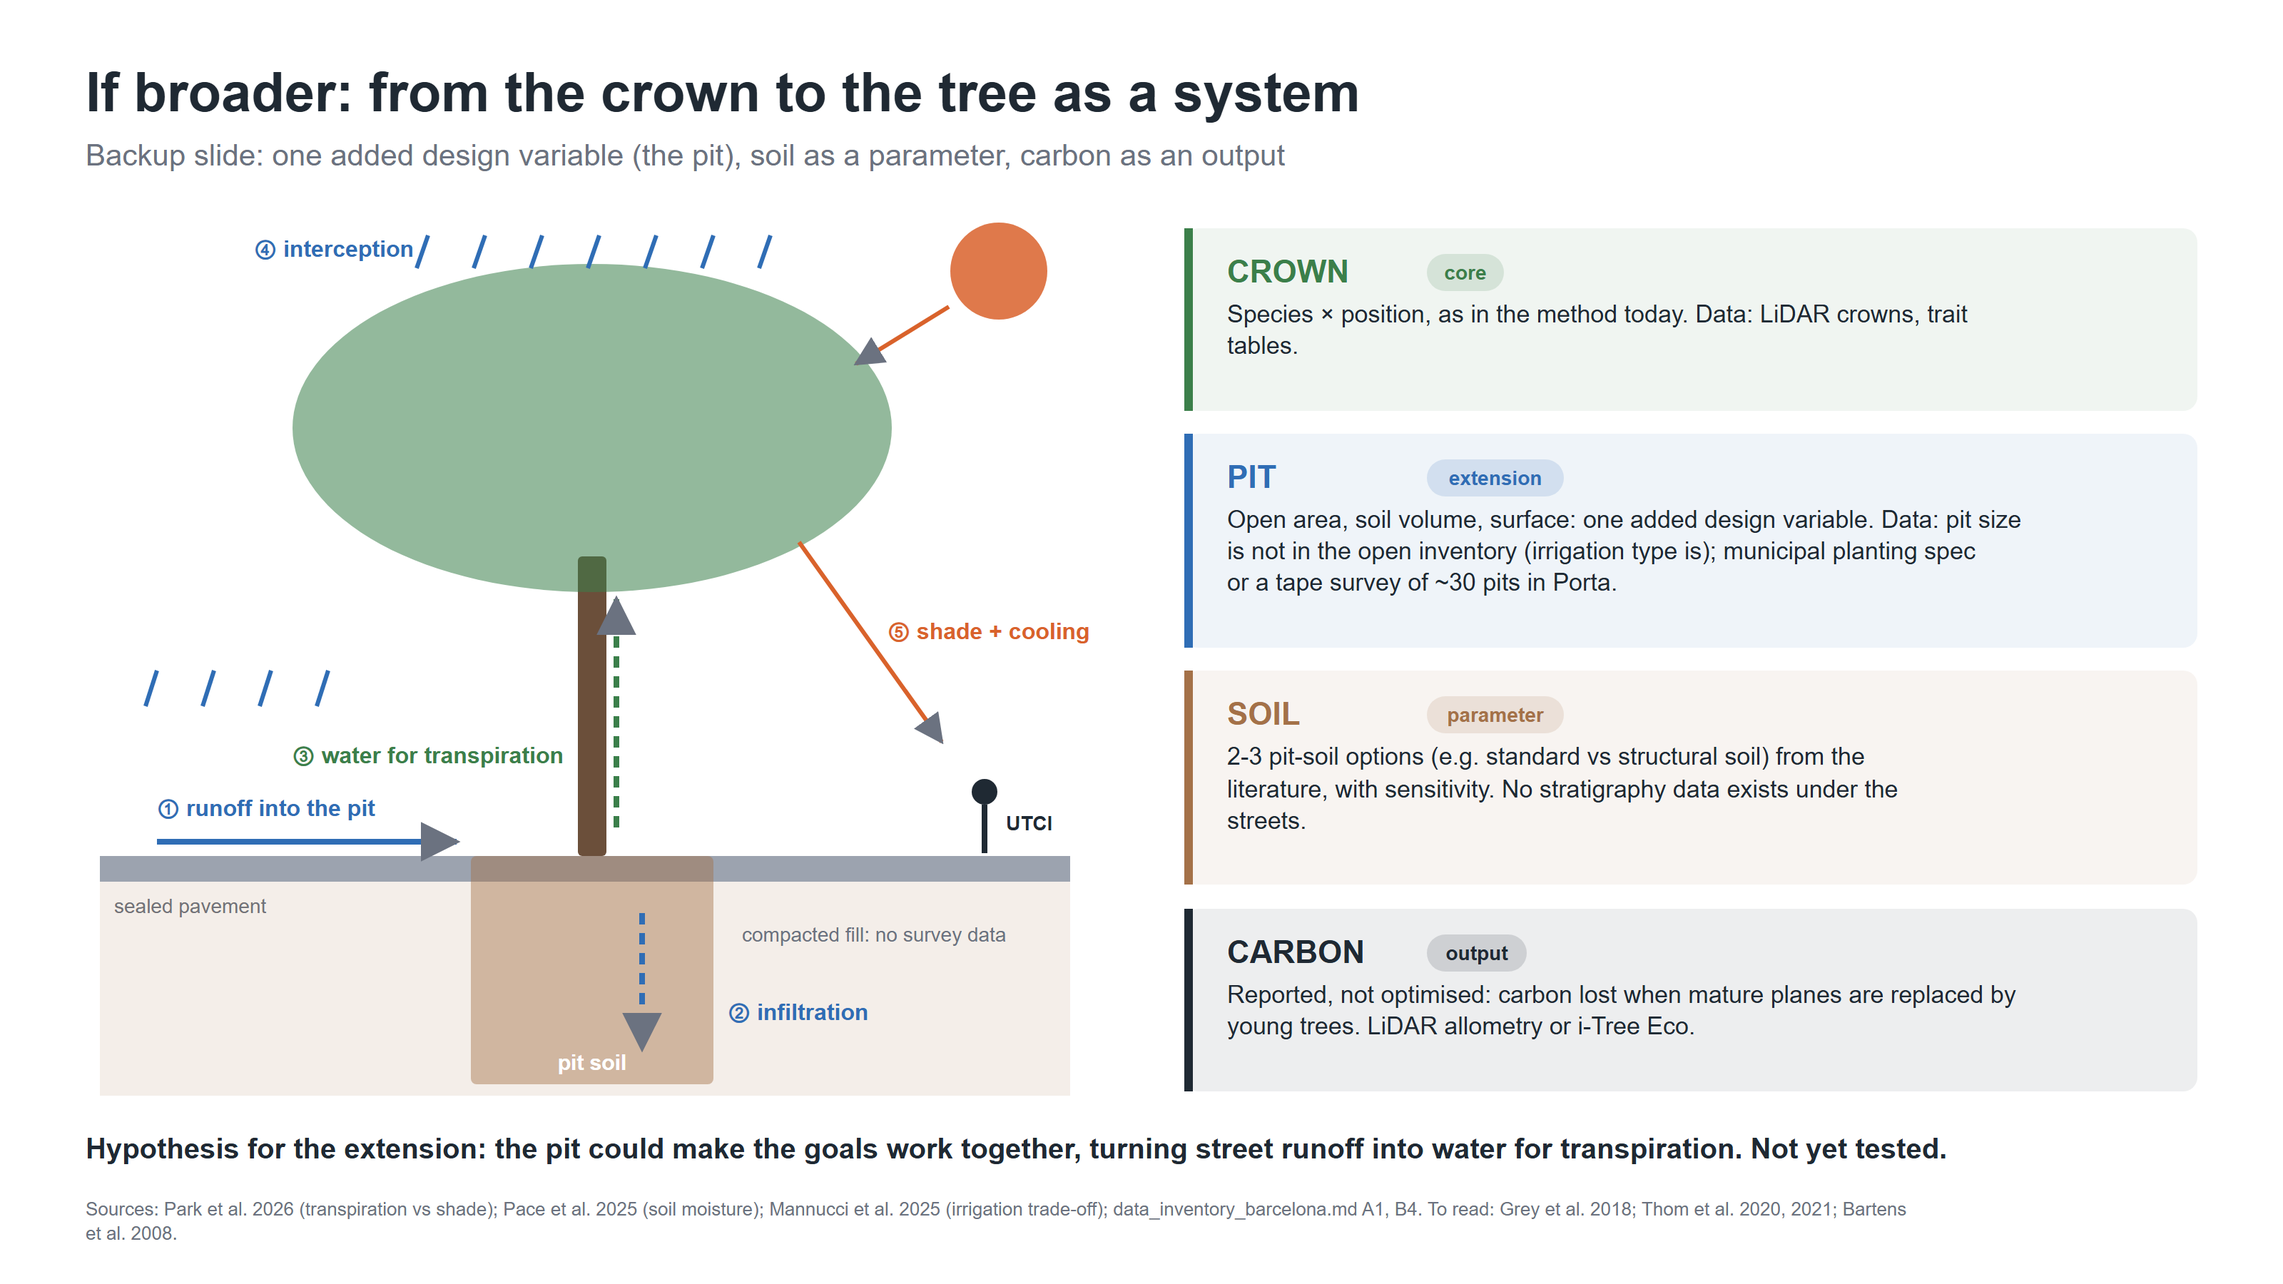
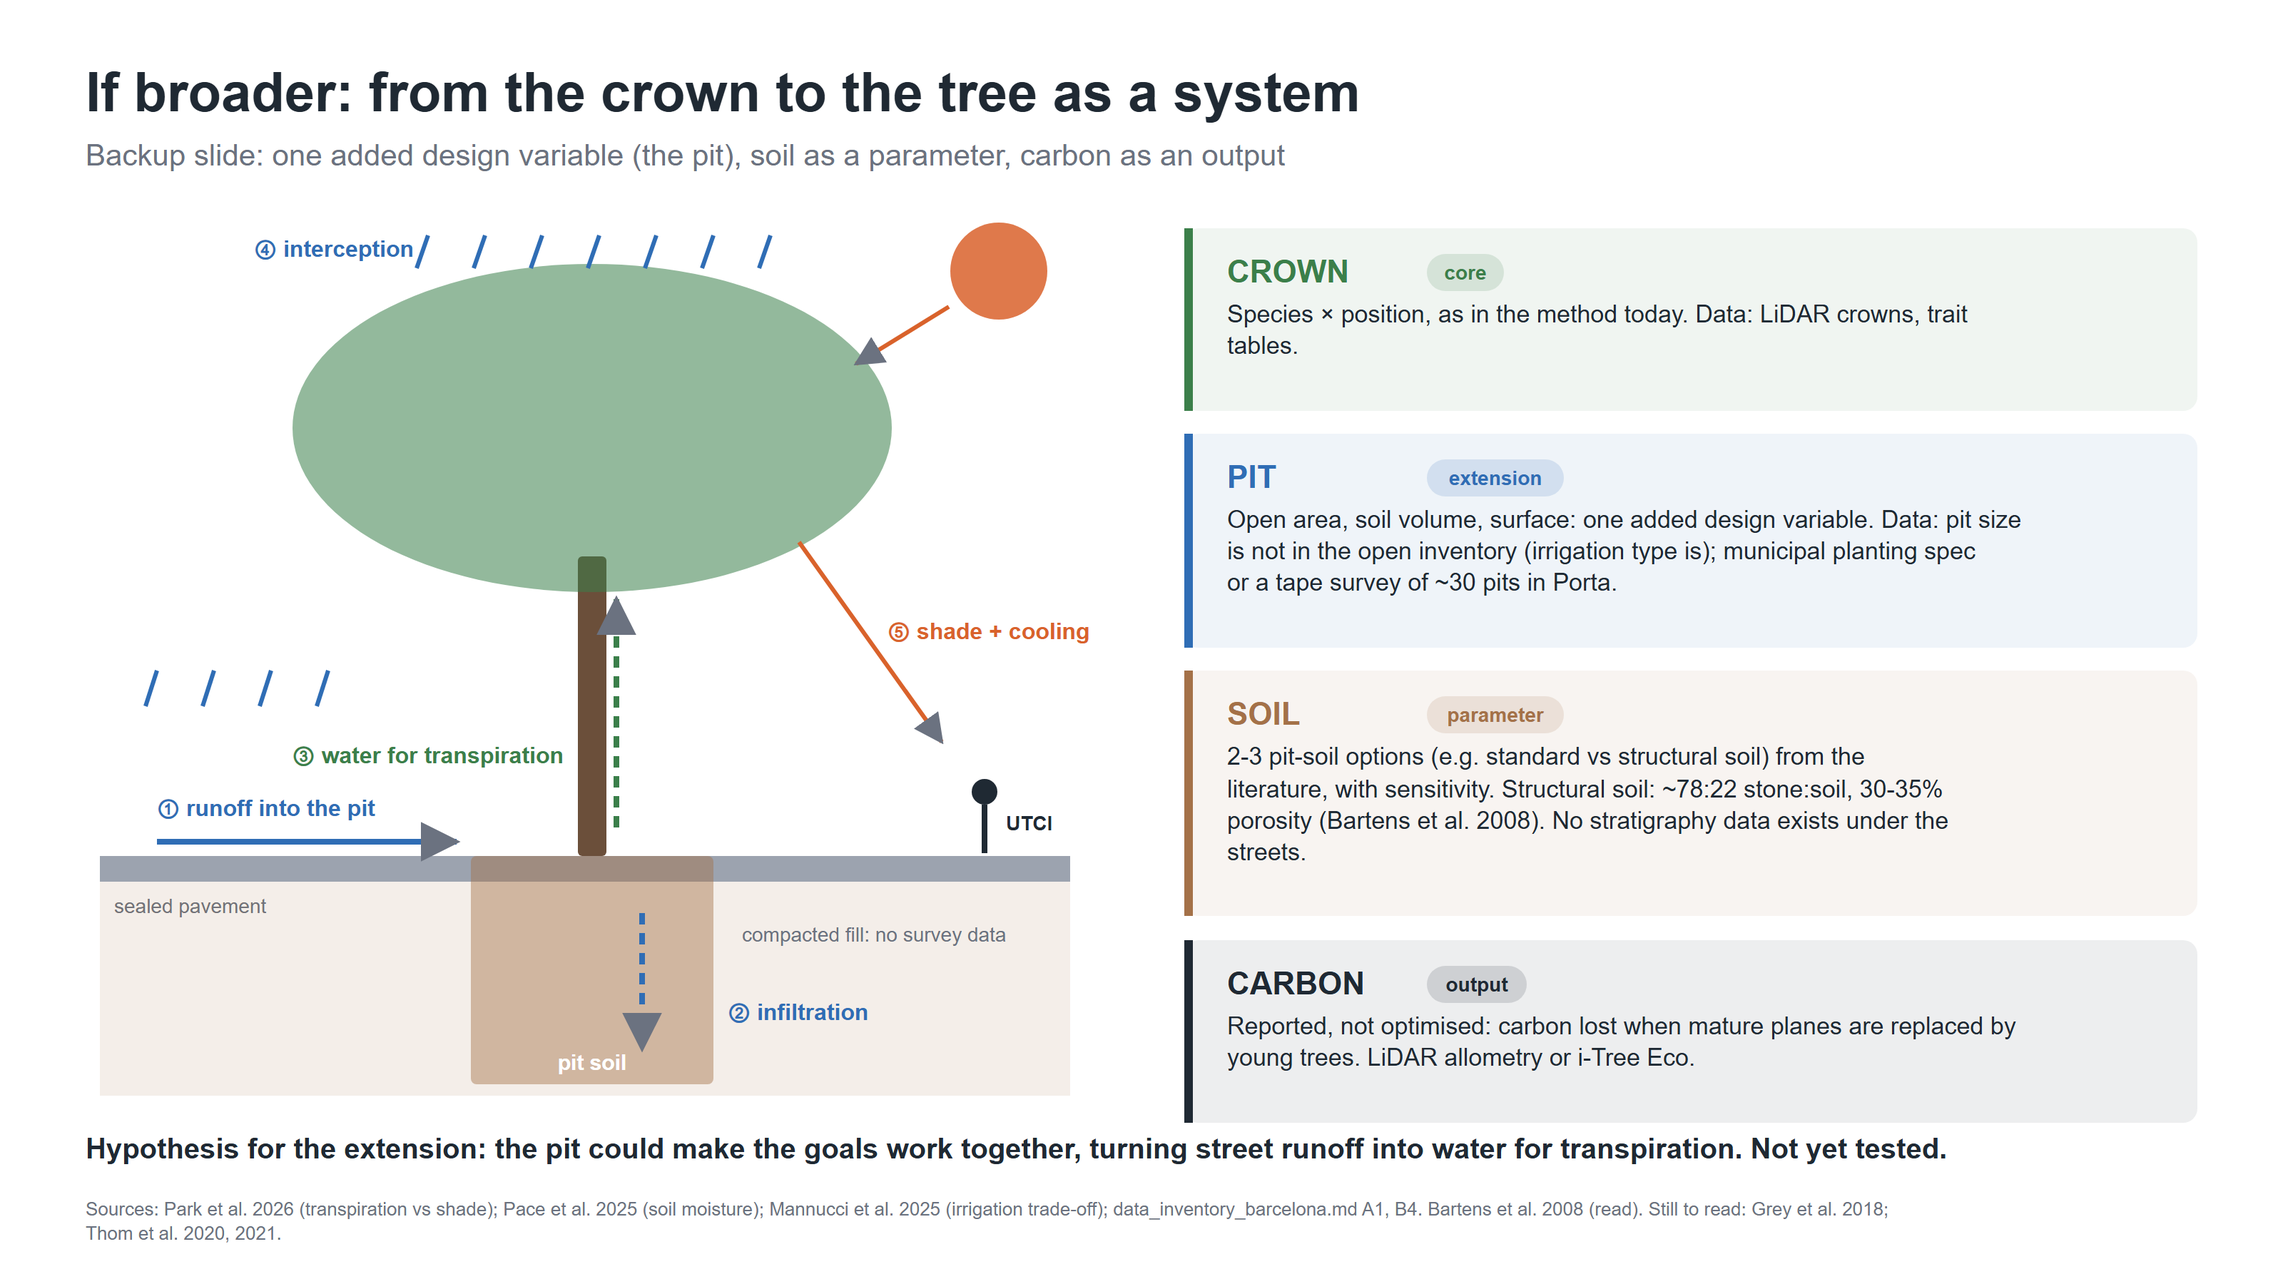
Read Bartens 2008 and Rahmi 2025 in full; image-only PDFs in lecture skill
Bartens et al. 2008: roots raise infiltration through compacted subsoil
(+63% overall, +153% in the more compacted soil; Ksat x27 with green ash),
but oak vs maple did not differ, so roots stay out of the species scoring.
Lab Ksat values bracket a pit-infiltration sensitivity range. Rahmi et al.
2025: bioretention guidelines favour native origin over traits (3 of 30
North American ones name any trait); scoped as bioretention, not street
trees. Updates the methodology, topic decision, literature matrix,
species measurements, outline and slide figures 01 and 07. The
transcribe-lecture skill now handles image-only PDFs. Fact-checked
against both papers; one overstated number corrected.

diff --git a/scripts/make_infographics.py b/scripts/make_infographics.py
@@ -350,7 +350,7 @@ def fig_tree_system():
              ("PIT", RAIN, "extension", "Open area, soil volume, surface: one added design variable. Data: pit size is not in the open "
               "inventory (irrigation type is); municipal planting spec or a tape survey of ~30 pits in Porta."),
              ("SOIL", SOIL, "parameter", "2-3 pit-soil options (e.g. standard vs structural soil) from the literature, with "
-              "sensitivity. No stratigraphy data exists under the streets."),
+              "sensitivity. Structural soil: ~78:22 stone:soil, 30-35% porosity (Bartens et al. 2008). No stratigraphy data exists under the streets."),
              ("CARBON", INK, "output", "Reported, not optimised: carbon lost when mature planes are replaced by young trees. "
               "LiDAR allometry or i-Tree Eco.")]
     y = 160
@@ -365,7 +365,7 @@ def fig_tree_system():
     save("07_tree_system_backup", "If broader: from the crown to the tree as a system",
          "Backup slide: one added design variable (the pit), soil as a parameter, carbon as an output", b + tk,
          "Park et al. 2026 (transpiration vs shade); Pace et al. 2025 (soil moisture); Mannucci et al. 2025 (irrigation trade-off); "
-         "data_inventory_barcelona.md A1, B4. To read: Grey et al. 2018; Thom et al. 2020, 2021; Bartens et al. 2008.")
+         "data_inventory_barcelona.md A1, B4. Bartens et al. 2008 (read). Still to read: Grey et al. 2018; Thom et al. 2020, 2021.")
 
 
 if __name__ == "__main__":

diff --git a/notes/topic_decision.md b/notes/topic_decision.md
@@ -13,9 +13,9 @@ Citations below give author, year and the matrix row (#). Claims from abstracts 
 |---|---|---|
 | **Flood type** | Florence: whole city exposed to pluvial and flash floods from the minor network and a ~800 km combined 19th-century sewer; hotspots in flat, highly sealed areas incl. historic centre, validated against historical pluvial events (Pacetti et al. 2022, #18). Emilia-Romagna May 2023: no hourly extremes, multi-day accumulation, return period >500 yr (Scoccimarro et al. 2025, #21). Bologna Oct 2024: 160–180 mm/24 h on saturated soils, culverted streams overflowed (Arpae report; see data inventory). Ravone culvert insufficient for intense events (Dottori et al. 2014, #20) | **Florence fits a pluvial framing; Bologna's recent events do not.** v2 names *urban pluvial flooding from frequent short storms* and explicitly excludes multi-day/fluvial events |
 | **Testability** ("significantly reduces", "extreme precipitation") | Tree effect is largest for short, low-intensity storms and falls with depth and intensity (Kuehler et al. 2016 #9 (abs); Anys & Weiler 2024 #1; Song et al. 2020 #12 (abs)). Catchment experiment: 4% runoff-volume reduction from 31 street trees, **no peak-flow effect** (Selbig et al. 2021 #10 (abs)). NbS effect decays with return period (Costa et al. 2021 #23; Esraz-Ul-Zannat et al. 2024 #32; Liu et al. 2026 #24 (abs)) | Metric = **event runoff volume** from sealed surfaces (not peak discharge). Storms = **local design storms of 2, 5, 10-yr return period, ≥1 h** (Tuscany LSPP grid; ≥1 h avoids the 15-min aggregation bias, Lompi et al. 2022 #19). Baseline and comparison defined (§4) |
-| **Traits vs biomass** | Interception differs strongly between species: storage capacity varies threefold among 20 species (Xiao et al. #3 (abs)); *Tilia cordata* 70% vs *Acer platanoides* 55% event interception (Anys & Weiler 2024 #1); *Quercus ilex* 46–51% vs *Q. pyrenaica* 10–16% (Hassan et al. 2017 #8 (abs)); birch 23% vs pine 45% (Zabret et al. 2019 #7 (abs)). LAI / leaf area density is the main driver (Anys & Weiler #1; Yang et al. 2019 #5 (abs); Baptista et al. 2018 #6 (abs)); full trait list in Dowtin et al. 2023 #4 (abs) | Supported for *interception*: species traits (storage capacity, LAI, leaf area density) matter, not just size. **Not** supported for roots: only two lab studies (#16, #17). v2 drops "deep root architecture" as a claim and keeps roots out of the scoring |
+| **Traits vs biomass** | Interception differs strongly between species: storage capacity varies threefold among 20 species (Xiao et al. #3 (abs)); *Tilia cordata* 70% vs *Acer platanoides* 55% event interception (Anys & Weiler 2024 #1); *Quercus ilex* 46–51% vs *Q. pyrenaica* 10–16% (Hassan et al. 2017 #8 (abs)); birch 23% vs pine 45% (Zabret et al. 2019 #7 (abs)). LAI / leaf area density is the main driver (Anys & Weiler #1; Yang et al. 2019 #5 (abs); Baptista et al. 2018 #6 (abs)); full trait list in Dowtin et al. 2023 #4 (abs) | Supported for *interception*: species traits (storage capacity, LAI, leaf area density) matter, not just size. **Not** supported for roots: only two lab studies (#16, #17). Bartens et al. 2008 (#16, read in full) show that tree roots raise infiltration through compacted subsoil, but black oak (coarse roots) and red maple (fine roots) did not differ significantly. v2 drops "deep root architecture" as a claim and keeps roots out of the scoring |
 | **Scope** | Florence offers hotspot maps (Pacetti #18), 1 m LiDAR, regional IDF grid, HSG 1:10,000 (used by Pacetti), 82k-tree inventory. NBS space in a hotspot district is only 0.1–7.1% of its area (Pacetti #18) | **One city (Florence), one scale (small catchment / district hotspot, ~0.5–2 km²), one intervention (street and square trees over sealed surfaces)** |
-| **User** | Tree-selection DSSs rarely include climate resilience (Yadav et al. 2024 #27 (abs)); stormwater guidelines select plants by native status, not traits (Rahmi et al. 2025 #26 (abs)); SylvCiT's runoff module is disabled (Nicol et al. 2026 #28) | Primary user = **computational designer / landscape architect in the early design phase**. The municipal planner is the secondary reader of the outputs |
+| **User** | Tree-selection DSSs rarely include climate resilience (Yadav et al. 2024 #27 (abs)); bioretention guidelines select plants by native status far more than by traits (Rahmi et al. 2025 #26: 47 guidelines, 3 of 30 North American ones name any trait; rain gardens, not street trees); SylvCiT's runoff module is disabled (Nicol et al. 2026 #28) | Primary user = **computational designer / landscape architect in the early design phase**. The municipal planner is the secondary reader of the outputs |
 
 ## 2. Candidate topics scored (1–5, CLAUDE.md criteria)
 
@@ -39,7 +39,7 @@ Citations below give author, year and the matrix row (#). Claims from abstracts 
 ### Problem statement
 Florence is repeatedly hit by **urban pluvial floods**: short, intense storms exceed the infiltration capacity of sealed surfaces and the capacity of a ~800 km, largely 19th-century combined sewer. Hotspots lie in flat, highly sealed districts, including the historic centre (Pacetti et al. 2022). In these districts, less than ~7% of the area is available for bioretention-type solutions (Pacetti et al. 2022). Trees are therefore one of the few retrofits possible, because their canopy spreads over pavements without taking ground space.
 
-Trees do not all intercept the same amount of rain. Interception differs several-fold between species and is driven by measurable traits such as canopy storage capacity and leaf area index (Xiao & McPherson 2016; Anys & Weiler 2024; Dowtin et al. 2023). Yet street-tree choices and existing selection tools do not use these traits. Planting guidelines select species by origin or appearance (Rahmi et al. 2025). Tree-selection decision support rarely addresses climate adaptation (Yadav et al. 2024). The most advanced trait-based recommender, SylvCiT, has its runoff module still disabled (Nicol et al. 2026). Designers therefore cannot tell, at the design stage, how much runoff a given choice of species and positions will avoid in a flood-prone block.
+Trees do not all intercept the same amount of rain. Interception differs several-fold between species and is driven by measurable traits such as canopy storage capacity and leaf area index (Xiao & McPherson 2016; Anys & Weiler 2024; Dowtin et al. 2023). Yet street-tree choices and existing selection tools do not use these traits. Stormwater bioretention guidelines favour native origin over traits: 50% suggest and 17% require native species, while 3 of 30 North American guidelines name any plant trait (Rahmi et al. 2025; the review covers rain-garden planting, not street trees). Tree-selection decision support rarely addresses climate adaptation (Yadav et al. 2024). The most advanced trait-based recommender, SylvCiT, has its runoff module still disabled (Nicol et al. 2026). Designers therefore cannot tell, at the design stage, how much runoff a given choice of species and positions will avoid in a flood-prone block.
 
 > Scope note (for the slide): the thesis addresses frequent, short-duration pluvial storms. It does **not** address river floods or multi-day events like Emilia-Romagna 2023 (return period >500 yr; Scoccimarro et al. 2025), where vegetation has negligible influence (Kuehler et al. 2016; Selbig et al. 2021).
 

diff --git a/.claude/skills/transcribe-lecture/SKILL.md b/.claude/skills/transcribe-lecture/SKILL.md
@@ -30,6 +30,7 @@ Homework files (`RM_HW01_brief/draft/final`) are not part of this skill.
 5. **Read the sources.** Read the slides and any other files with the same lecture prefix. Parts `_p1`, `_p2` are one lecture and get one notes file. This laptop has no `pdftoppm`, so Read cannot render PDF pages; use these steps instead:
    - **Text:** for a `.pptx`, run `"$PY" .claude/skills/transcribe-lecture/slides_text.py <deck.pptx> <scratchpad>/<prefix>_slides.txt`. It gives each slide's text, speaker notes and image count. For a PDF, use PyMuPDF (`~/miniconda3/python.exe`, `import fitz`, `page.get_text()`).
    - **PDF from a `.pptx`** (keep it next to the deck as `<prefix>_slides.pdf`, so slide numbers are stable). Run from PowerShell: `& "C:\Program Files\LibreOffice\program\soffice.exe" "-env:UserInstallation=file:///C:/Users/giofo/AppData/Local/Temp/lo_profile_claude" --headless --convert-to pdf --outdir <dir> <deck.pptx>`. It returns before it finishes, so wait until `soffice.bin` is gone from `tasklist`. Without the separate profile, the conversion silently produced nothing on 8 Oct.
+   - **Image-only PDF** (no text layer, e.g. screenshots merged with iLovePDF; `page.get_text()` returns nothing): render every page at 80 dpi and Read them all. That resolution is enough for body text, and Read does the OCR. Screenshot decks repeat slides; cite the first occurrence.
    - **Visuals:** look only at slides with images and little text (diagrams, maps, tables). Render them with PyMuPDF at 60 dpi into the scratchpad (`doc[p-1].get_pixmap(dpi=60).save(...)`) and Read the PNGs. The "structure tree" warnings MuPDF prints are harmless.
 6. **Write `<prefix>_notes.md`** next to the transcript, using the template below.
 7. **Report** to the user: the files written, audio length and transcription time, the chapter list, and any homework or deadlines. Offer to fold rules worth keeping into `notes/research_method_guidelines.md`.

diff --git a/slides/outline_20oct.md b/slides/outline_20oct.md
@@ -70,7 +70,7 @@
 
 **Say (~85 words, only if asked):** "If the scope needs to be wider, I would not add parallel themes. I would widen the tree into a system. The pit is the one design variable I'd add, because it links the two goals: it takes runoff from the pavement and stores it as water for transpiration, which cools the air more than shade does. Soil would enter as two or three literature options with sensitivity, since there is no survey under the streets. Carbon would be reported, not optimised."
 
-**Status of the evidence:** the water link rests on Park et al. 2026 (transpiration 1.15 °C vs shade 0.43 °C), Pace et al. 2025 (soil moisture: dry soils, more runoff reduction; wet soils, more cooling) and Mannucci et al. 2025 (irrigation trade-off). The pit papers (Grey et al. 2018; Thom et al. 2020, 2021; Bartens et al. 2008, abstract only so far) are not read yet. Read them before using this slide. Pit dimensions are not in the open inventory, which has irrigation type (`tipus_reg`) and water type (`tipus_aigua`) only.
+**Status of the evidence:** the water link rests on Park et al. 2026 (transpiration 1.15 °C vs shade 0.43 °C), Pace et al. 2025 (soil moisture: dry soils, more runoff reduction; wet soils, more cooling) and Mannucci et al. 2025 (irrigation trade-off). Bartens et al. 2008 is now read in full: roots raise infiltration through compacted subsoil (+63% overall and +153% in the more compacted soil; Ksat ×27 in structural soil over compacted subsoil), with no significant difference between oak and maple. Grey et al. 2018 and Thom et al. 2020, 2021 are not read yet: read them before using this slide. Pit dimensions are not in the open inventory, which has irrigation type (`tipus_reg`) and water type (`tipus_aigua`) only.
 
 ### Other backup material
 - `slides/fig/01_lit_map.png`: what the 55 papers cover, and how many I read in full.

diff --git a/notes/methodology.md b/notes/methodology.md
@@ -35,7 +35,7 @@ For each tree: position, species, **height H, crown diameter D, crown base Hb** 
 Event based, per street segment:
 1. Rain depth P(T, d) from the PDISBA IDF curves, T = 1, 2, 10 yr, d = 1 h (plus observed storms if BCASA gauge data arrive).
 2. **Canopy interception** over each crown's projection on sealed ground: storage-bucket I = min(P, S) with S from species storage capacity × LAI. An analytical Gash-type model (Hassan et al. 2017; Huang et al. 2017) is the refinement. Stemflow is ignored (<1% of rain; Anys & Weiler 2024).
-3. **Tree-pit infiltration**: pit area × infiltration rate × event duration (literature range; Bartens et al. 2008, Zhang et al. 2019).
+3. **Tree-pit infiltration**: pit area × infiltration rate × event duration (literature range; Bartens et al. 2008, Zhang et al. 2019). Absolute values from Bartens et al. (read in full): approximate container saturated conductivity of compacted clay loam (1.59 g/cm3) 1.3e-3 cm/s (~47 mm/h) without a tree, 3.0–3.9e-3 cm/s (~108–140 mm/h) with young oak or maple; 1.31e-3 vs 4.83e-5 cm/s (~47 vs ~1.7 mm/h) with vs without green ash (structural soil over compacted subsoil). These are lab values for the most restrictive layer, so use them only to bracket a sensitivity range. They show that roots help, not that the effect depends on species (oak vs maple: not significant), so the term stays species-independent.
 4. Remaining rain on sealed surfaces → SCS curve number (CN ≈ 98 sealed) → **event runoff volume (m³)**.
 - **Validation:** (i) interception module vs the open Freiburg field data (Anys & Weiler 2024, FreiDok); (ii) per-tree and per-m²-canopy volumes vs paired-catchment benchmarks (Selbig et al. 2021: 6,376 L/tree; Coville et al. 2022: 64–66 L/m² canopy per leaf-on season); (iii) plausibility vs the flood-hazard index pattern.
 

diff --git a/notes/todo_manual.md b/notes/todo_manual.md
@@ -20,7 +20,7 @@ These carry the gap and evidence slides. **First, the backup slide on tree pits*
 - [ ] Grey et al. 2018, tree pits to mitigate runoff in dense urban areas. https://doi.org/10.1016/j.jhydrol.2018.08.038
 - [ ] Thom et al. 2020, tree transpiration and the efficiency of stormwater control measures. https://doi.org/10.1016/j.watres.2020.115597
 - [ ] Thom et al. 2021, choosing species with high transpiration for passively irrigated pits. https://doi.org/10.1016/j.scitotenv.2021.151466
-- [ ] Optional: Bartens et al. 2008, tree roots and infiltration through compacted subsoil. https://doi.org/10.2134/jeq2008.0117
+- [x] Bartens et al. 2008, tree roots and infiltration through compacted subsoil: read in full on 8 Oct (also Rahmi et al. 2025). Roots do raise infiltration, but oak vs maple did not differ.
 
 Then the gap and evidence papers:
 - [x] Mannucci 2025, Shaamala 2025, Peng 2026, Wu 2024, Xiao & McPherson 2016, Baptista 2018, Silva 2025: read in full on 8 Oct. The gap holds. Wu 2024 does heat + runoff, but with surface temperature, by scenario, without species and without optimisation.
